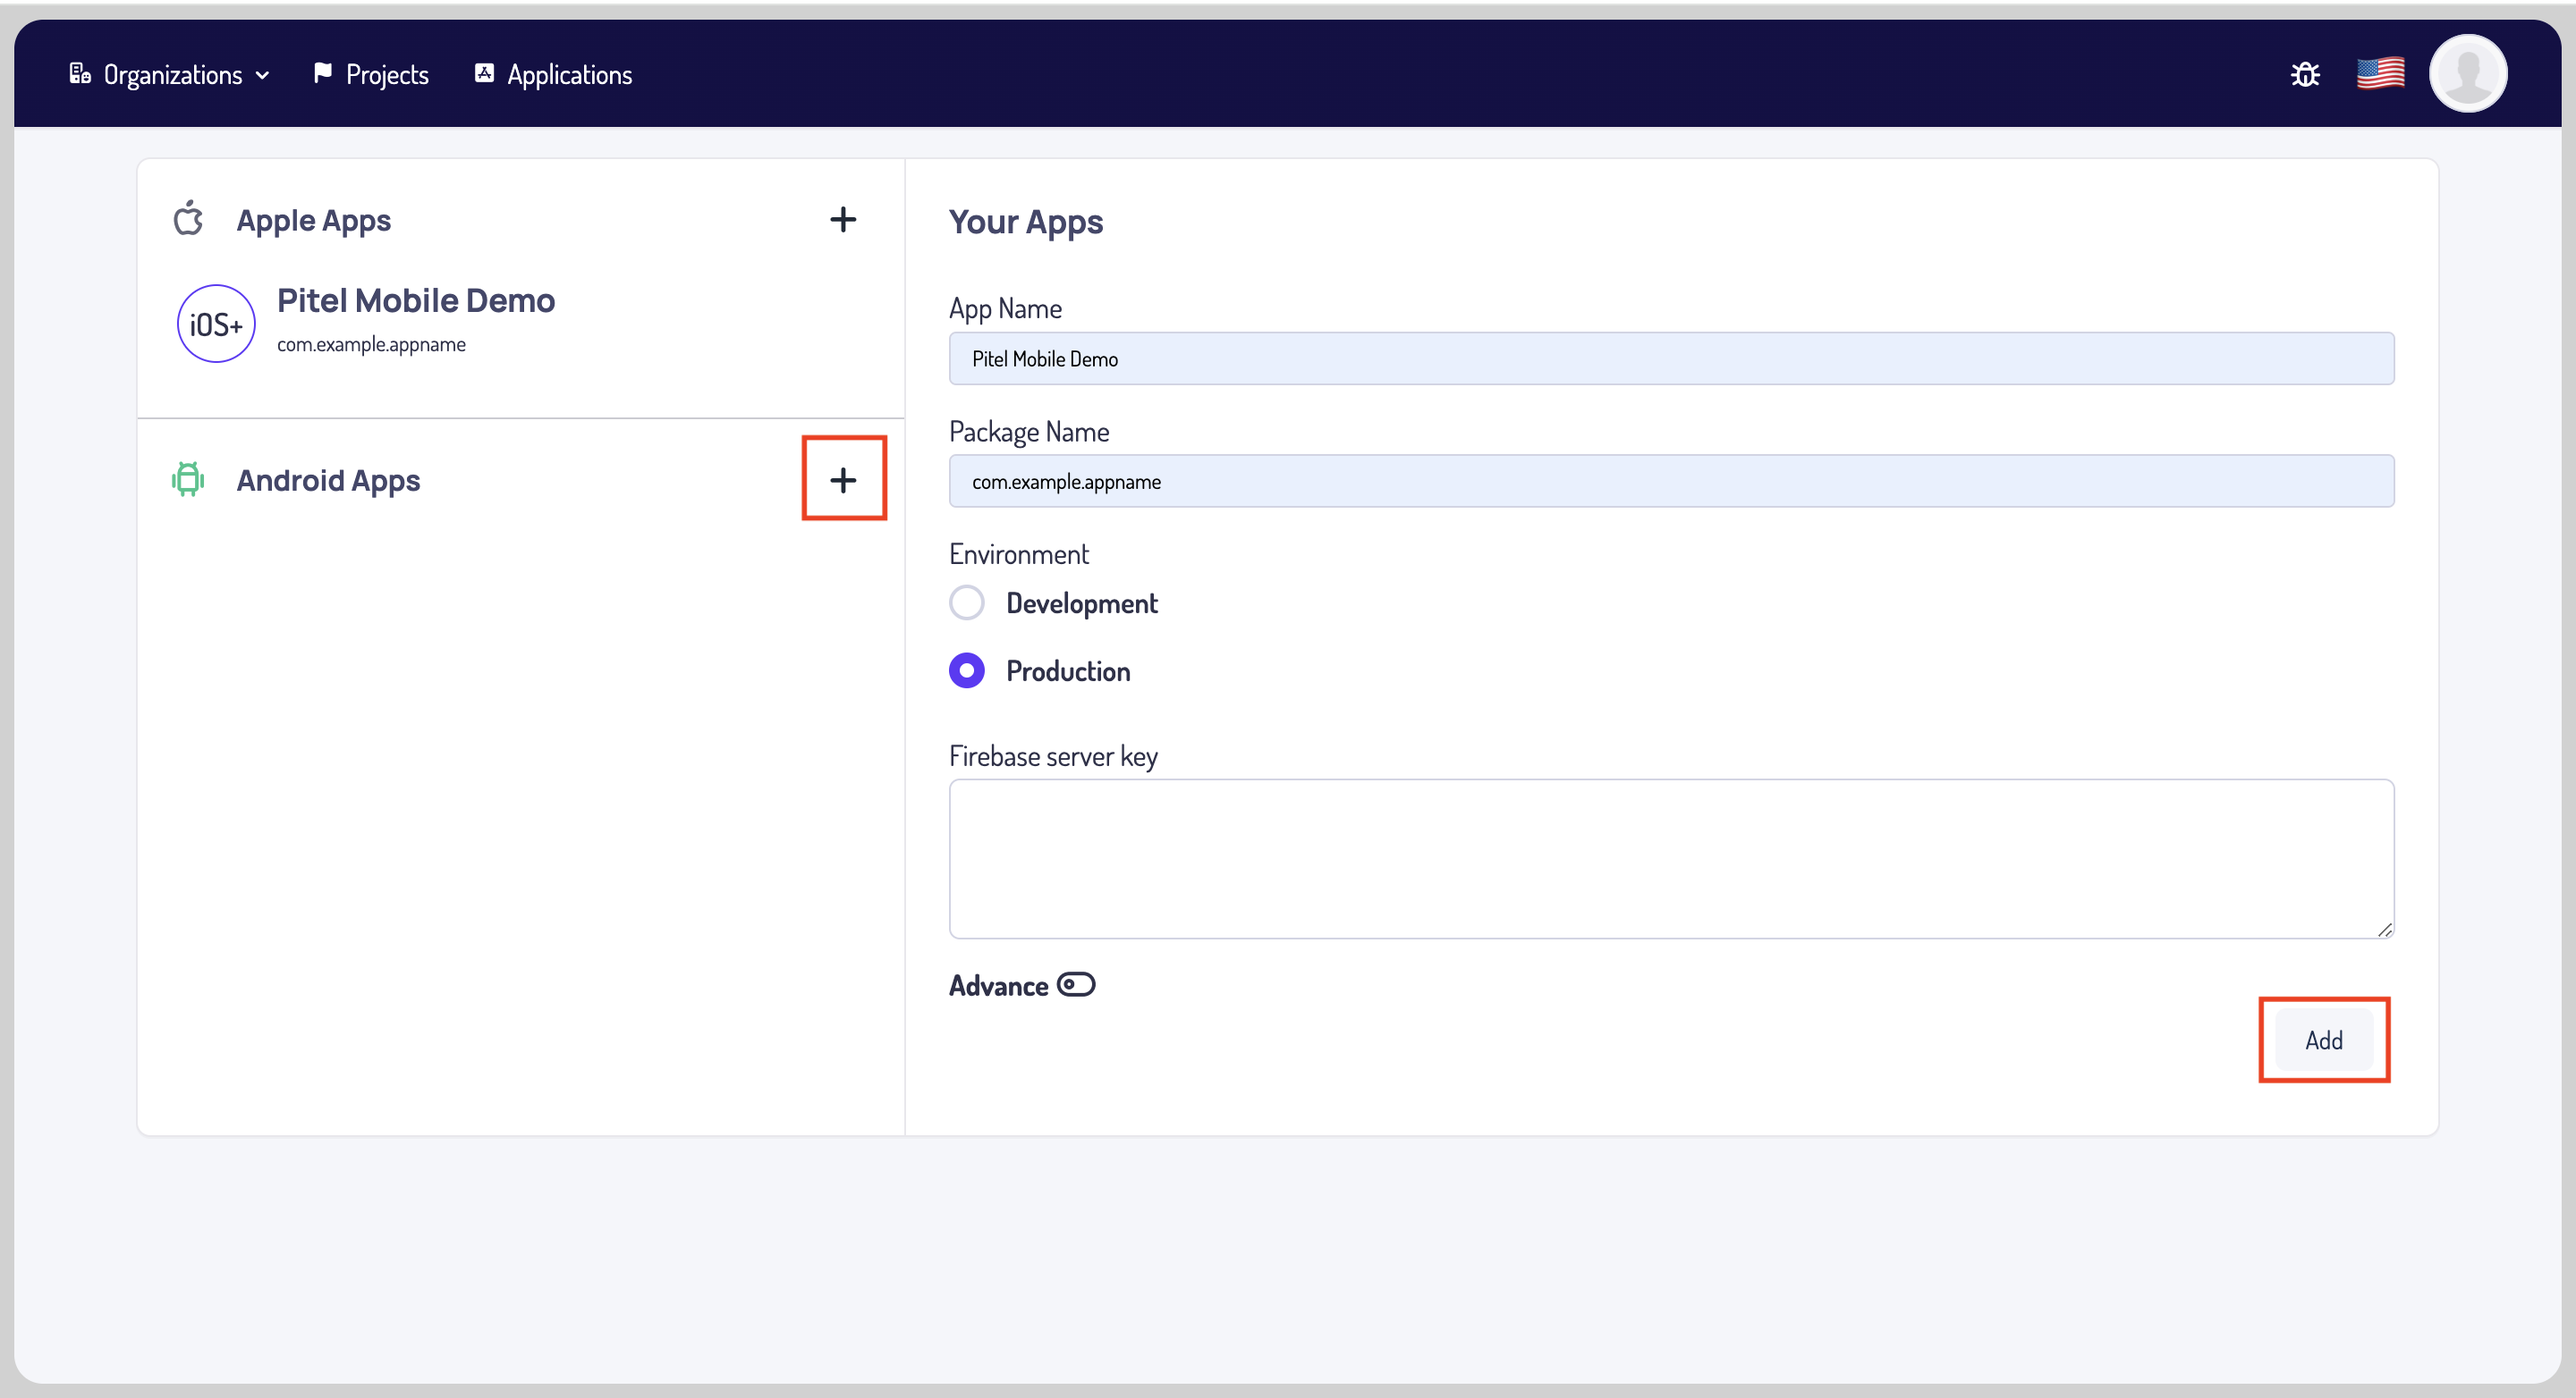
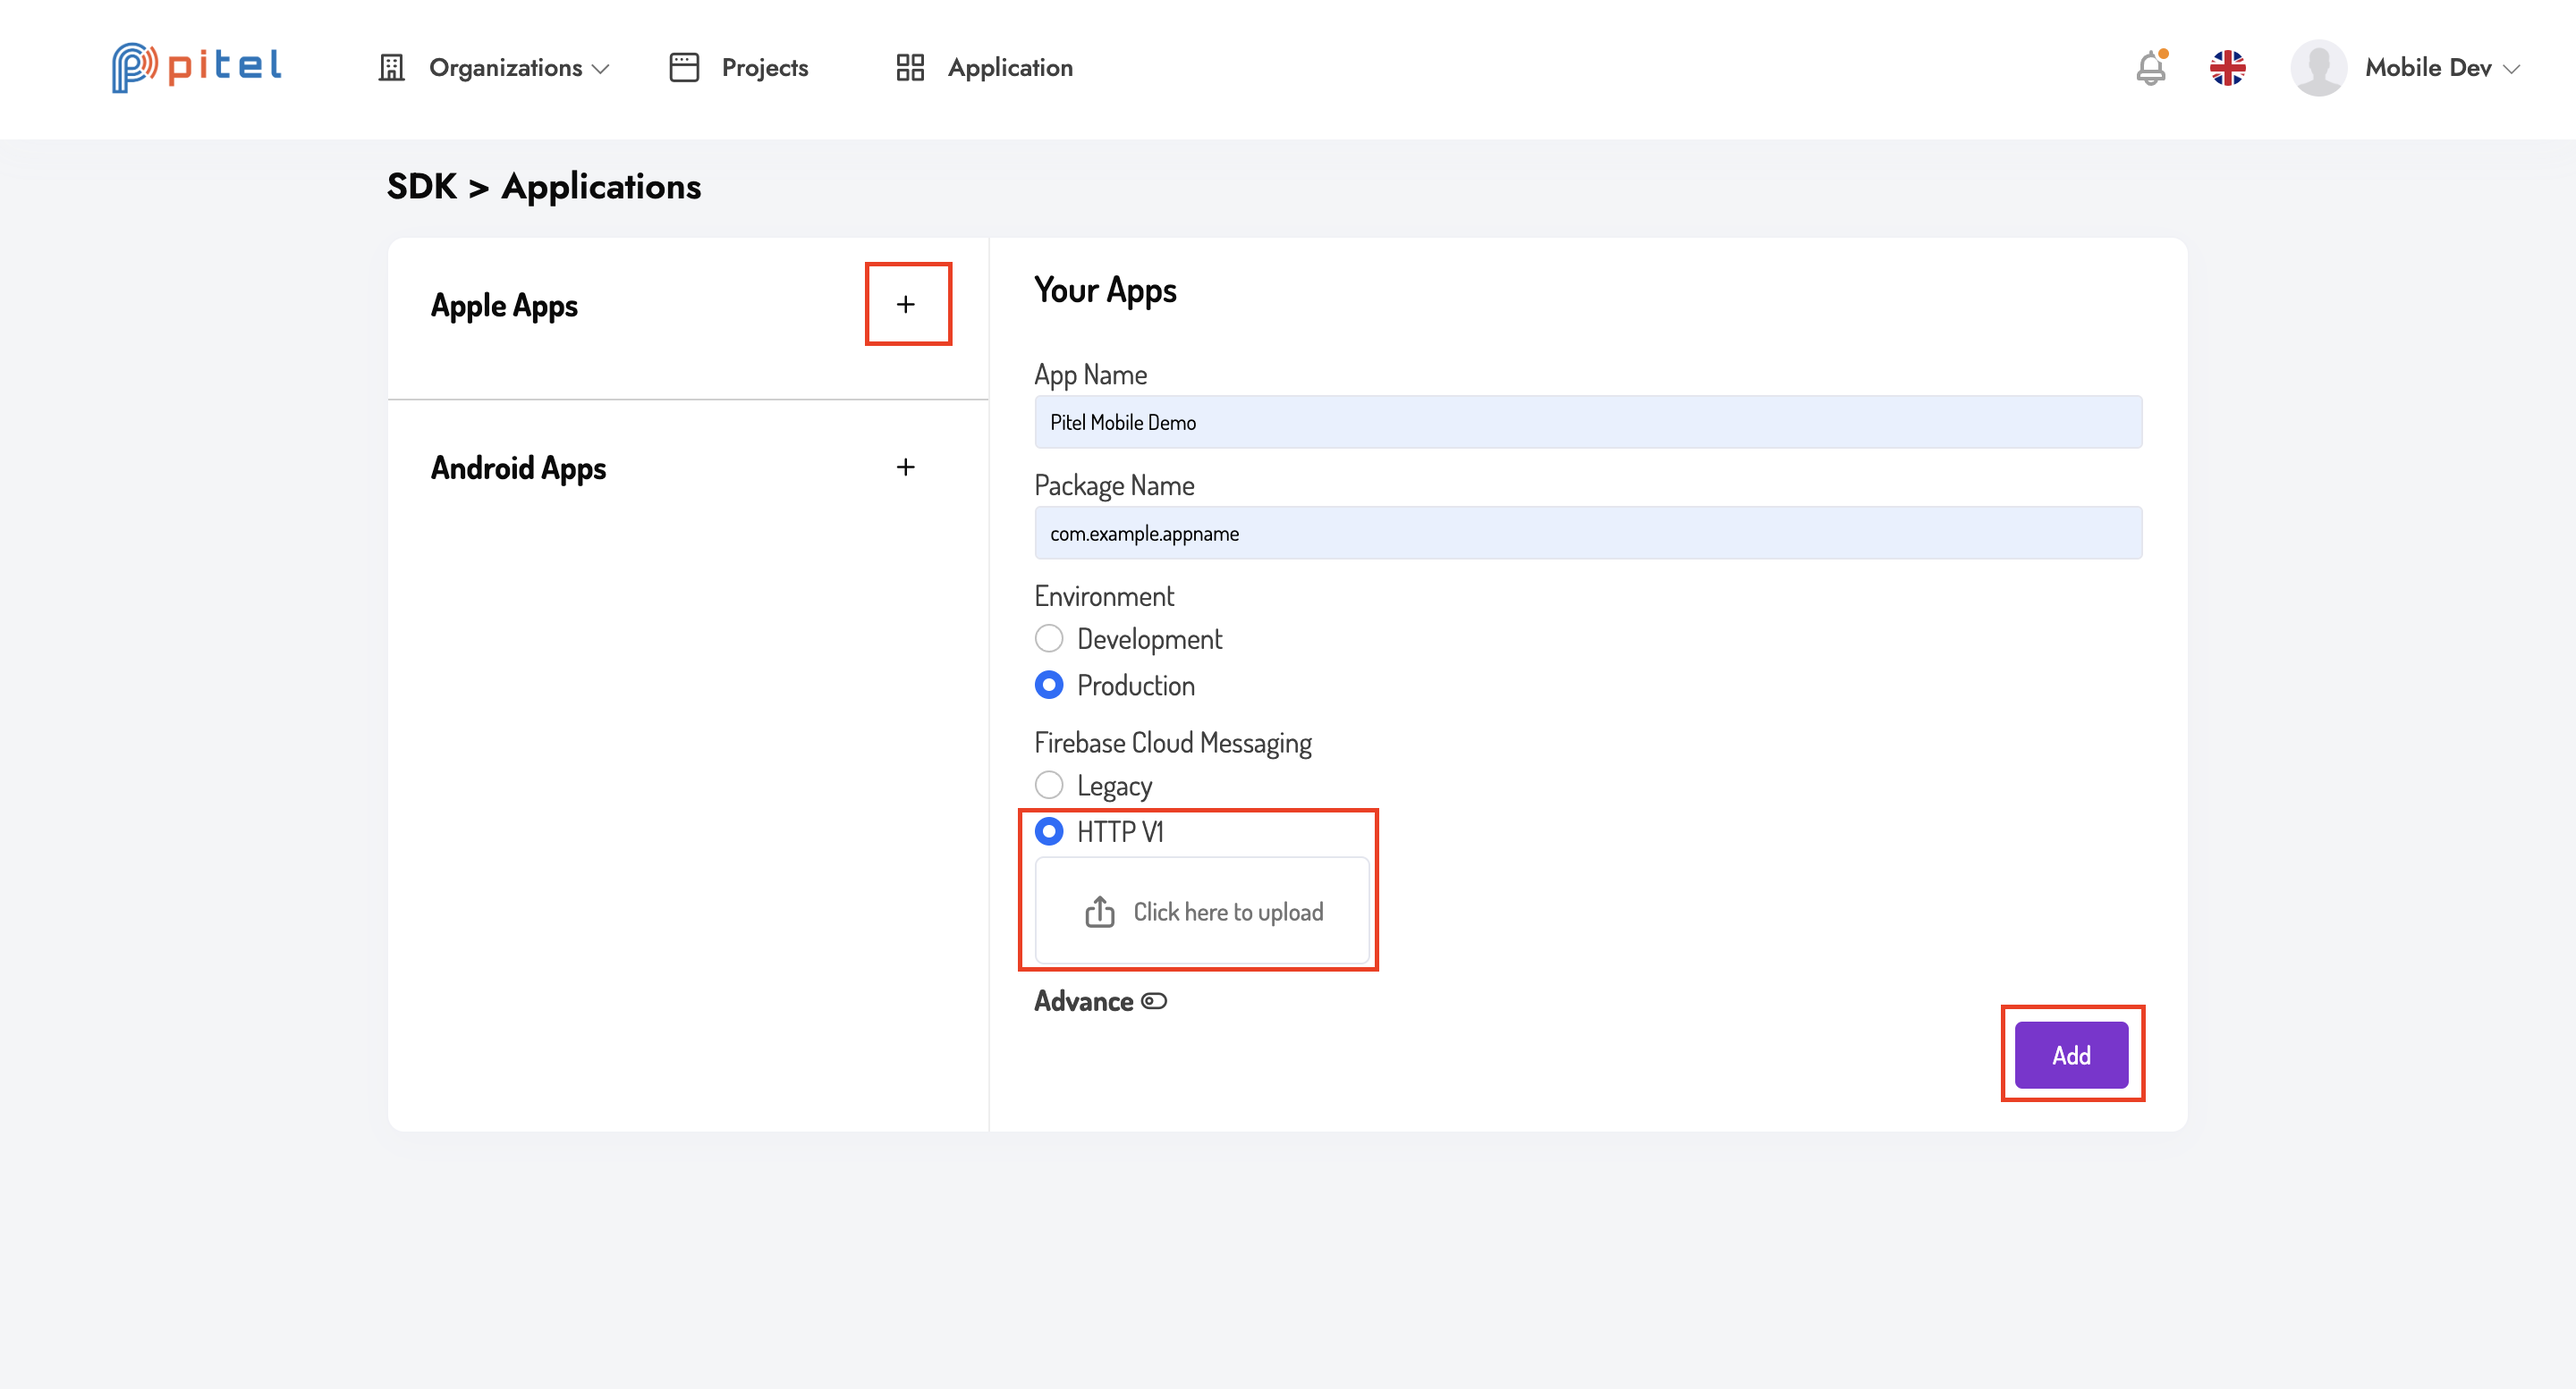
feat: fcm v1 docs

diff --git a/PUSH_NOTIF.md b/PUSH_NOTIF.md
@@ -63,7 +63,7 @@ Follow the instructions to [create a certificate signing request](https://devel
 
 - **Install certificate.**
   Download the certificate and install it into the Keychain Access app(download .cer and double click to install).
-- **Export the .p12 file and config in [pitel portal](https://github.com/anhquangmobile/react-native-pitel-voip/blob/main/PORTAL_GUIDE.md)**
+- \*\*Export the .p12 file.
   ![push_img_7](assets/push_img/push_img_7.png)
 
 # Setup Pushkit & Callkit
@@ -126,7 +126,9 @@ Using FCM (Firebase Cloud Message) to handle push notification wake up app when 
   ![fcm6](assets/push_img/fcm6.png)
 
 > **Note**
-> After complete all step Setup. Please send information to dev of Tel4vn in [here](https://portal-sdk.tel4vn.com/)
+>
+> - After complete all step Setup. Please send information to dev of Tel4vn in [here](https://portal-sdk.tel4vn.com/)
+> - Please check [PORTAL_GUIDE.md](https://github.com/tel4vn/flutter-pitel-voip/blob/1.0.7/PORTAL_GUIDE.md.md) to setup your config.
 
 # Installation (your project)
 
@@ -226,17 +228,34 @@ Your app bundleId: com.pitel.uikit.demo
 Voip push Bundle Id: com.pitel.uikit.demo.voip
 ```
 
-- IOS
+### IOS
 
 ![push_img_1](assets/push_img/push_img_1.png)
 
-- Android: using above app or test from Postman
+### Android: using above app or test from Postman
+
+#### How to get access token?
+
+- Go to https://developers.google.com/oauthplayground/
+- Navigate to Step 1 (Select & authorize APIs) → Select “Firebase Cloud Messaging API v1” and click “Authorize API’s” button.
+  ![step_1](assets/push_img/gg_oauth_step_1.png)
+- You will be redirected to Authentication and needs permission for Google OAuth 2.0 Playground to view and manage the GCP services. Click “Allow” button.
+- Navigate to Step 2 (Exchange authorization code for tokens) → Click “Exchange authorization code for tokens” button.
+  This will generate “Refresh token” and “Access token”.
+  ![step_2](assets/push_img/gg_oauth_step_2.png)
+
+> Note:
+>
+> - project_id: this is your firebase project id.
+> - fcm_token: replace your fcm token, get from your device.
+> - access_token: get access token from oauth playground above.
 
 cURL
 
 ```dart
-curl --location 'https://fcm.googleapis.com/v1/projects/pitel-87bff/messages:send' \
+curl --location 'https://fcm.googleapis.com/v1/projects/${project_id}/messages:send' \
 --header 'Content-Type: application/json' \
+--header 'Authorization: Bearer ${access_token}' \
 --data '{
     "message": {
         "notification": {
@@ -268,7 +287,7 @@ curl --location 'https://fcm.googleapis.com/v1/projects/pitel-87bff/messages:sen
         "android": {
             "priority": "high"
         },
-        "token": "fcm_token is here"
+        "token": "${fcm_token}"
     }
 }'
 ```
